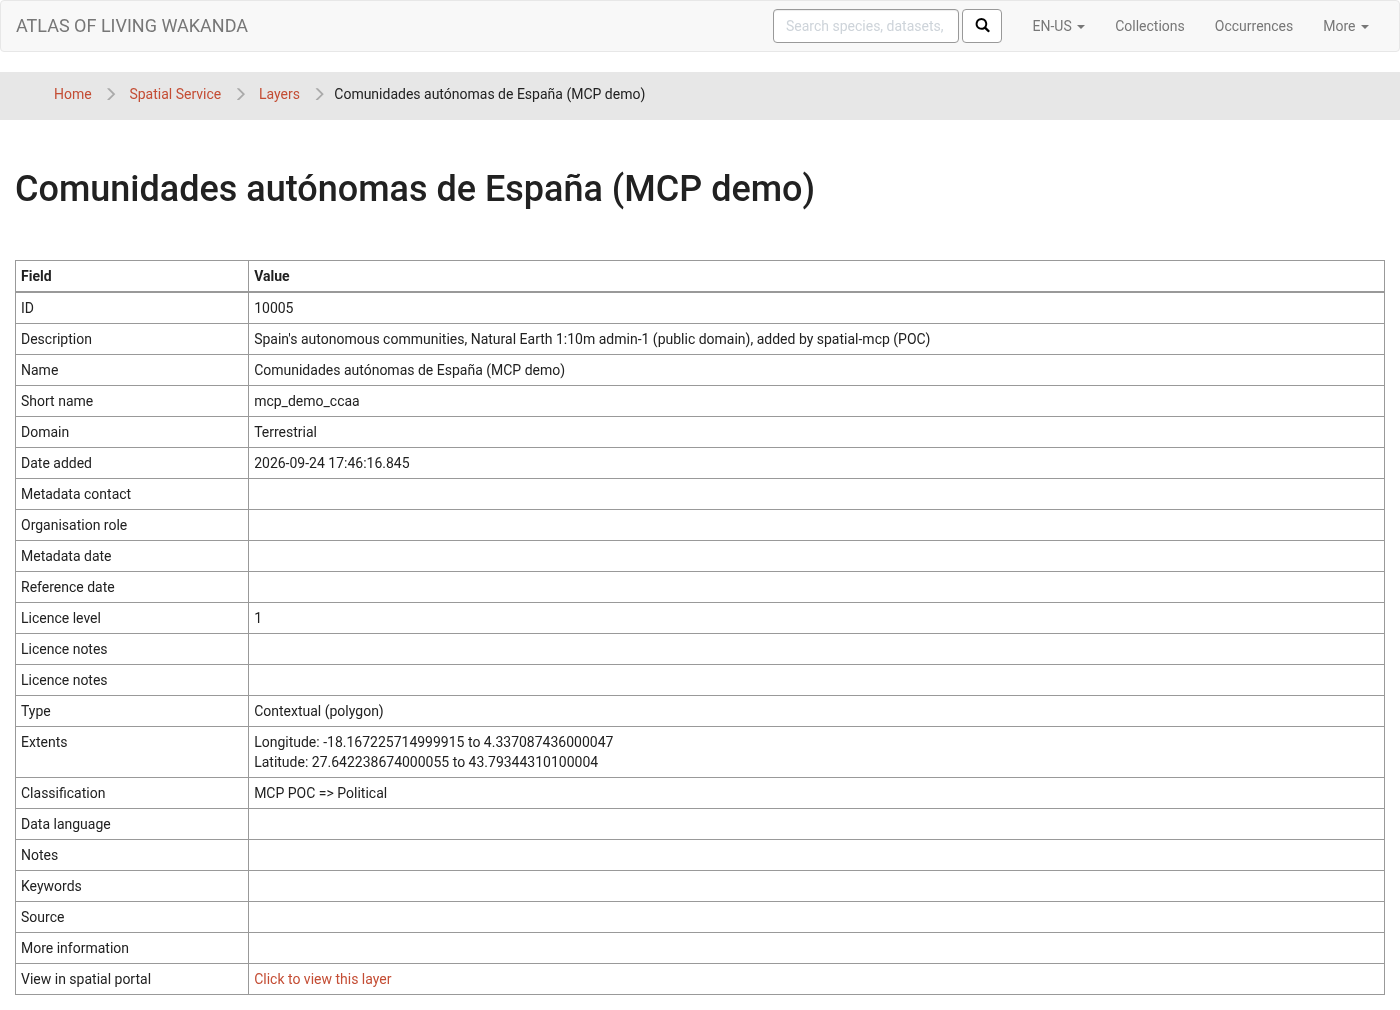
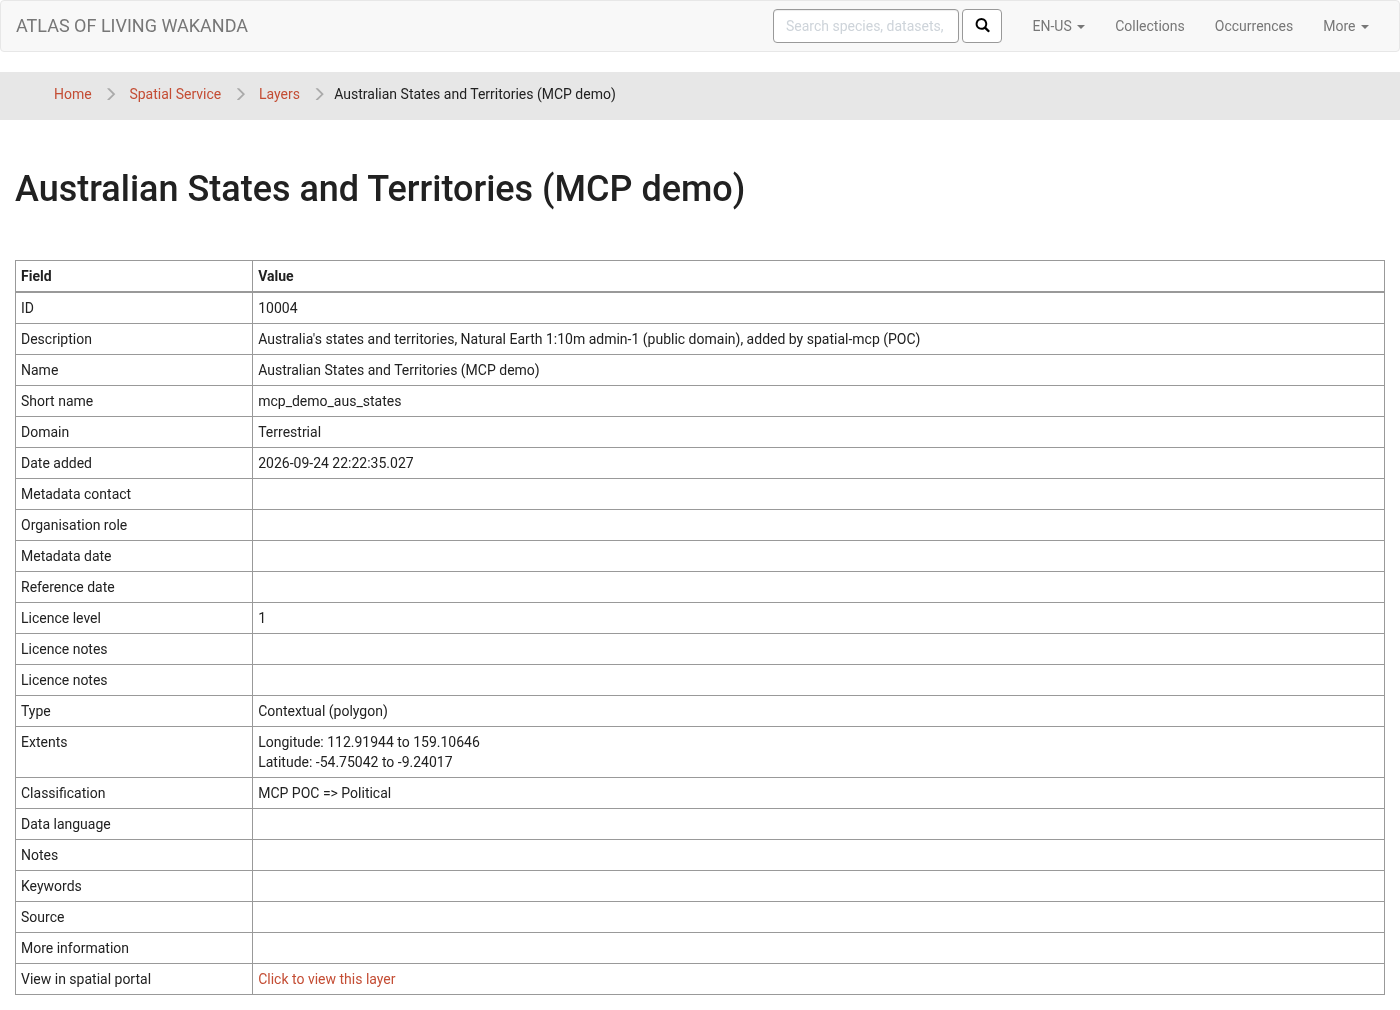
README: Australian examples and screenshots (states and territories added with spatial-mcp on the LA demo portal)

diff --git a/README.md b/README.md
@@ -97,14 +97,14 @@ To update it later: `git pull && npm ci && npm run build` in the same folder, th
 
 1. **Prepare the zip.** One layer per zip: a shapefile (SHP, SHX, DBF, PRJ) or a grid (HDR, BIL, PRJ), in WGS84,
    with the DBF in ISO-8859-1. A GeoTIFF has to be converted first (`gdal_translate -of EHdr …`).
-2. **Ask the assistant to check it:** *"Check ~/layers/comarcas.zip"*. It tells you what is wrong, if anything,
+2. **Ask the assistant to check it:** *"Check ~/layers/ibra7_regions.zip"*. It tells you what is wrong, if anything,
    and which column looks like the name of each area.
-3. **Ask for the layer:** *"Add ~/layers/comarcas.zip as a contextual layer called `comarcas`, shown as
-   'Comarcas', under Area Management > Administrative, with the COMARCA column as the name of each area."*
+3. **Ask for the layer:** *"Add ~/layers/ibra7_regions.zip as a contextual layer called `ibra7_regions`, shown as
+   'IBRA 7 Regions', under Biodiversity > Region, with the REG_NAME_7 column as the name of each area."*
    It shows you a **preview** of exactly what it will fill in on the admin form. Nothing has been changed yet.
 4. **Say yes.** It uploads, creates the layer and the field, and waits for the tasks. Small layers finish in a
    few minutes; for big ones it tells you it is still working and checks back when you ask.
-5. **Check it:** *"Check the new layer with a point in Zaragoza."* It runs the wiki's checks and tells you which
+5. **Check it:** *"Check the new layer with a point in Canberra."* It runs the wiki's checks and tells you which
    ones pass.
 
 You can also do it one step at a time (*"just upload it"*, *"now create the field"*), exactly like in the admin pages.
@@ -114,9 +114,10 @@ the check in step 5 tells you so. Everything else (areas, search, map) works str
 
 ### What the result looks like
 
-A layer added this way on the LA demo portal: Spain's autonomous communities, from a Natural Earth shapefile
-([`test/fixtures/mcp_demo_ccaa.zip`](test/fixtures/mcp_demo_ccaa.zip)), with the accented names read correctly
-from the ISO-8859-1 DBF. It shows up in the portal like any layer added by hand:
+A layer added this way on the LA demo portal: Australia's states and territories, from a Natural Earth shapefile
+([`test/fixtures/mcp_demo_aus_states.zip`](test/fixtures/mcp_demo_aus_states.zip)). It shows up in the portal like
+any layer added by hand, and after the restart mentioned above a point query answers with the state
+(`/ws/intersect/cl10004/-23.70/133.88` → *Northern Territory*):
 
 ![The layer in the portal's list of layers](docs/img/layers-list.png)
 
@@ -127,7 +128,7 @@ from the ISO-8859-1 DBF. It shows up in the portal like any layer added by hand:
 ## More things to ask
 
 - *"Which layers do we have under Area Management?"*
-- *"Move the layer `comarcas` to Political > Regions and set the licence to CC BY."*
+- *"Move the layer `ibra7_regions` to Biodiversity > Region and set the licence to CC BY."*
 - *"Hide the layer `test_old`"* (disable it) or *"delete the layer `mcp_poc_…` and its upload."*
 - *"What tasks failed this week? Show me the log of the last FieldCreation."*
 - *"Re-run the thumbnails."*
